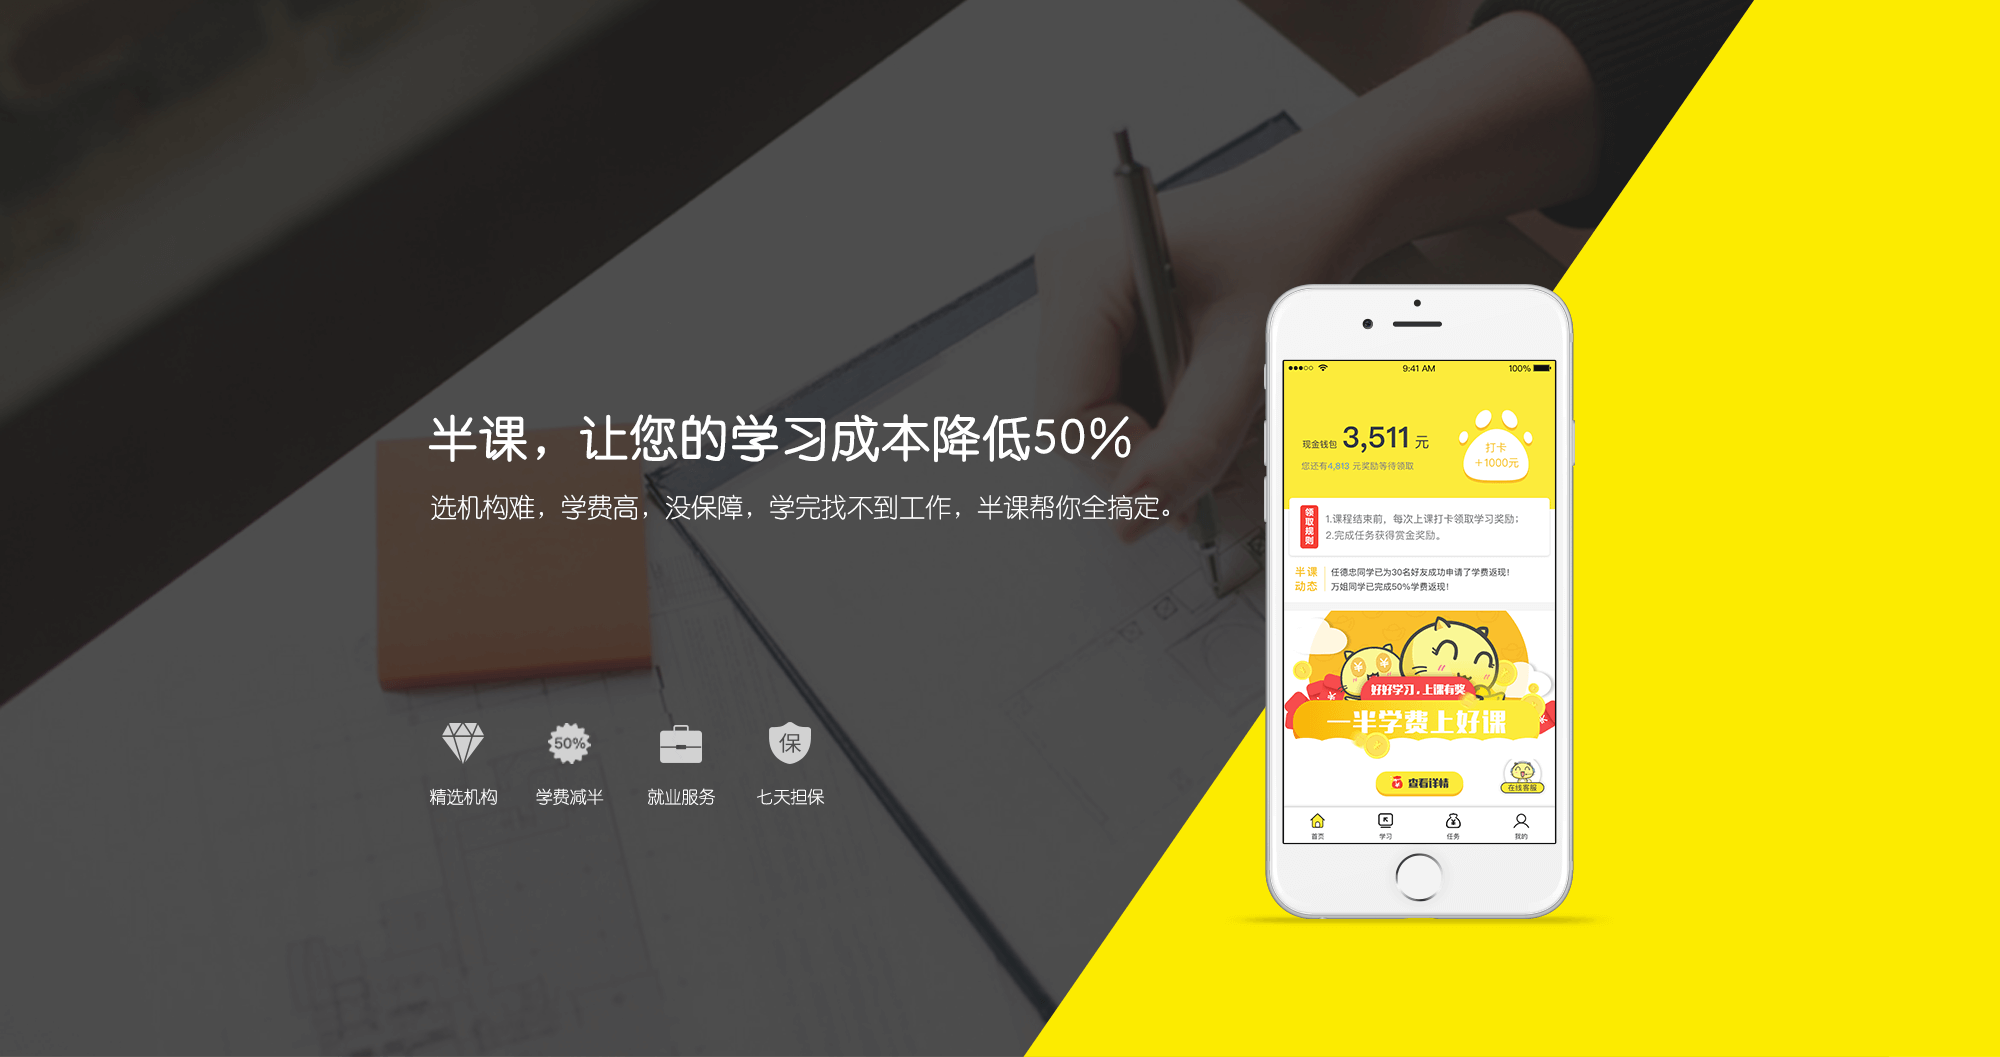
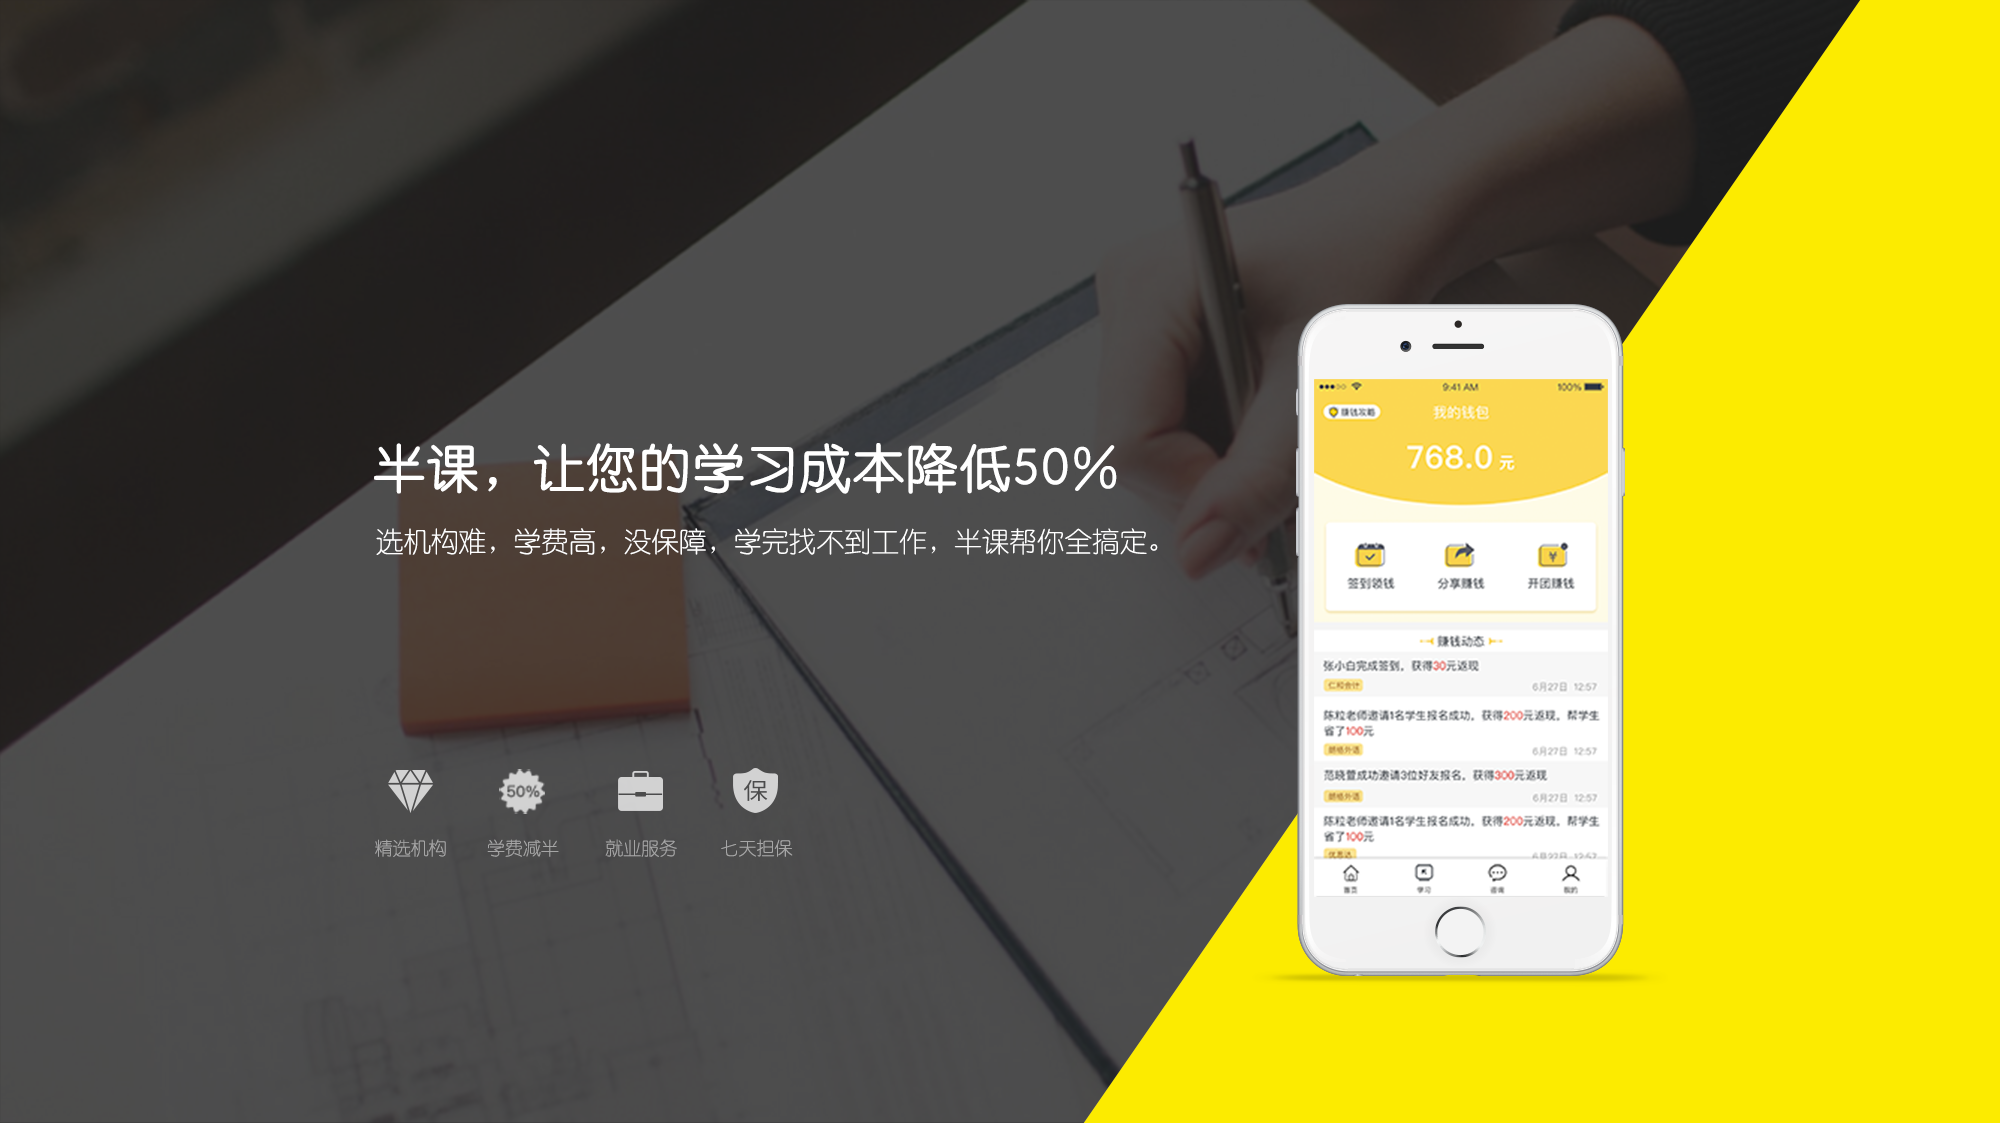
modified pc&mobile home page txt

diff --git a/app/views/home.html b/app/views/home.html
@@ -20,19 +20,19 @@
                     <li class="third-li">
                         <p class="third-li-title">注册奖励</p>
                         <p class="third-li-info">
-                            下载半课注册，上传身份证/学生证进行认证，通过审核后可获得20元现金奖励。
+                            下载半课并注册，立即获得8.8元注册奖励。
                         </p>
                     </li>
                     <li class="third-li">
                         <p class="third-li-title">上课奖励</p>
                         <p class="third-li-info">
-                            报名成功后，每次上课时可在首页打卡领取奖励，结课时最高获得学费20%奖励。
+                            通过半课报名课程，即可每日签到、轻松领钱。
                         </p>
                     </li>
                     <li class="third-li">
                         <p class="third-li-title">任务奖励</p>
                         <p class="third-li-info">
-                            邀请好友注册认证，将获得5元奖励；邀请好友报名成功，最高可获得学费30%奖励。
+                            未报名课程的用户，也可分享半课的好东西给好友、挑选心仪课程抢先开团，先赚学费再学习。
                         </p>
                     </li>
                 </ul>
@@ -62,7 +62,7 @@
                             <div class="box3"></div>
                         </div>
                     </div>
-                    <p class="fourth-tips-tip">注册认证，提交身份<br/><br/>证/学生证到平台审核</p>
+                    <p class="fourth-tips-tip">输入手机号完成注册</p>
                 </div>
                 <div class="fourth-tips">
                     <p class="fourth-tips-num">03</p>
@@ -97,7 +97,7 @@
                             <div class="box3"></div>
                         </div>
                     </div>
-                    <p  class="fourth-tips-tip">将app注册姓名及手机号告知老师，<br /><br/>由老师提交报名信息供半课审核。</p>
+                    <p  class="fourth-tips-tip">与机构老师一同，<br /><br/>完善个人报名信息并提交。</p>
                 </div>
                 <div class="fourth-tips">
                     <p class="fourth-tips-num">06</p>
@@ -108,7 +108,7 @@
                             <div class="box3"></div>
                         </div>
                     </div>
-                    <p class="fourth-tips-tip">审核成功开启后开始领取奖励，<br/><br/>最高可获得所报课程学费的50%奖励</p>
+                    <p class="fourth-tips-tip">审核成功开启后开始领取奖励，<br/><br/>最高可获得所报课程学费的50％奖励</p>
                 </div>
             </div>
         </div>

diff --git a/app/mobile/views/home.html b/app/mobile/views/home.html
@@ -70,19 +70,19 @@
             <div class="fifth-box">
             <div class="fifth-title">注册奖励</div>
             <div class="fifth-info">
-                下载半课注册，上传身份证/学生证进行审核，通过审核后可获得20元现金奖励。
+                下载半课并注册，立即获得8.8元注册奖励。
             </div>
         </div>
             <div class="fifth-box">
                 <div class="fifth-title">上课奖励</div>
                 <div class="fifth-info">
-                    报名成功后，每次上课时可在首页打卡奖励，结课时最高获得学费20%奖励。
+                    通过半课报名课程，即可每日签到、轻松领钱。
                 </div>
             </div>
             <div class="fifth-box">
                 <div class="fifth-title">任务奖励</div>
                 <div class="fifth-info">
-                    邀请好友注册认证，将获得5元奖励；邀请好友报名成功，最高可获得学费30%奖励。
+                    未报名课程的用户，也可分享半课的好东西给好友、挑选心仪课程抢先开团，先赚学费再学习。
                 </div>
             </div>
         </div>
@@ -110,7 +110,7 @@
                                 <div class="box3"></div>
                             </div>
                         </div>
-                        <p class="fourth-tips-tip">注册认证，提交身份<br/>证/学生证到平台审核</p>
+                        <p class="fourth-tips-tip">输入手机号完成注册</p>
                     </div>
                 </div>
                 <div class="sixth-box-info">
@@ -147,7 +147,7 @@
                                 <div class="box3"></div>
                             </div>
                         </div>
-                        <p class="fourth-tips-tip">将app注册姓名及手<br>机号告知老师，<br>由老师提交报名信息供半课审核。</p>
+                        <p class="fourth-tips-tip">与机构老师一同，<br>完善个人报名信息并提交。</p>
                     </div>
                     <div class="fourth-tips">
                         <p class="fourth-tips-num">06</p>
@@ -158,7 +158,7 @@
                                 <div class="box3"></div>
                             </div>
                         </div>
-                        <p class="fourth-tips-tip">&nbsp;&nbsp;审核成功开启后开始领取奖励，<br />&nbsp;最高可获得所报课程学费的50%奖励</p>
+                        <p class="fourth-tips-tip">&nbsp;&nbsp;审核成功开启后开始领取奖励，<br />&nbsp;最高可获得所报课程学费的50％奖励</p>
                     </div>
                 </div>
             </div>

diff --git a/app/views/include/footer.html b/app/views/include/footer.html
@@ -5,8 +5,8 @@
         <div class="footer-section about">
             <p class="footer-index"><span>关于我们</span></p>
             <div class="footer-about">
-                      半课是武汉迅牛科技联合武汉一批优质培训机构重磅推出的学习保障激励平台，
-                学员在半课上选择机构学习不仅可得到品质保障、七天退款和就业服务，还可获得最高学费50%的奖励。
+                半课是武汉迅牛科技于2017年推出的面向教育全品类的营销平台。
+                一方面，半课帮助学员降低培训费用、提升学习品质；另一方面，半课帮助机构提升到店转化率、加强口碑建设。
             </div>
         </div>
 

diff --git a/app/mobile/views/include/footer.html b/app/mobile/views/include/footer.html
@@ -5,8 +5,7 @@
       <div class="footer-section about">
          <p class="footer-index"><span>关于我们</span></p>
          <div class="footer-about">
-            半课是武汉迅牛科技联合武汉一批优质培训机构重磅推出的学习保障激励平台，
-            学员在半课上选择机构学习不仅可得到品质保障、七天退款和就业服务，还可获得最高学费50%的奖励。
+            半课是武汉迅牛科技于2017年推出的面向教育全品类的营销平台。一方面，半课帮助学员降低培训费用、提升学习品质；另一方面，半课帮助机构提升到店转化率、加强口碑建设。
          </div>
       </div>
 
